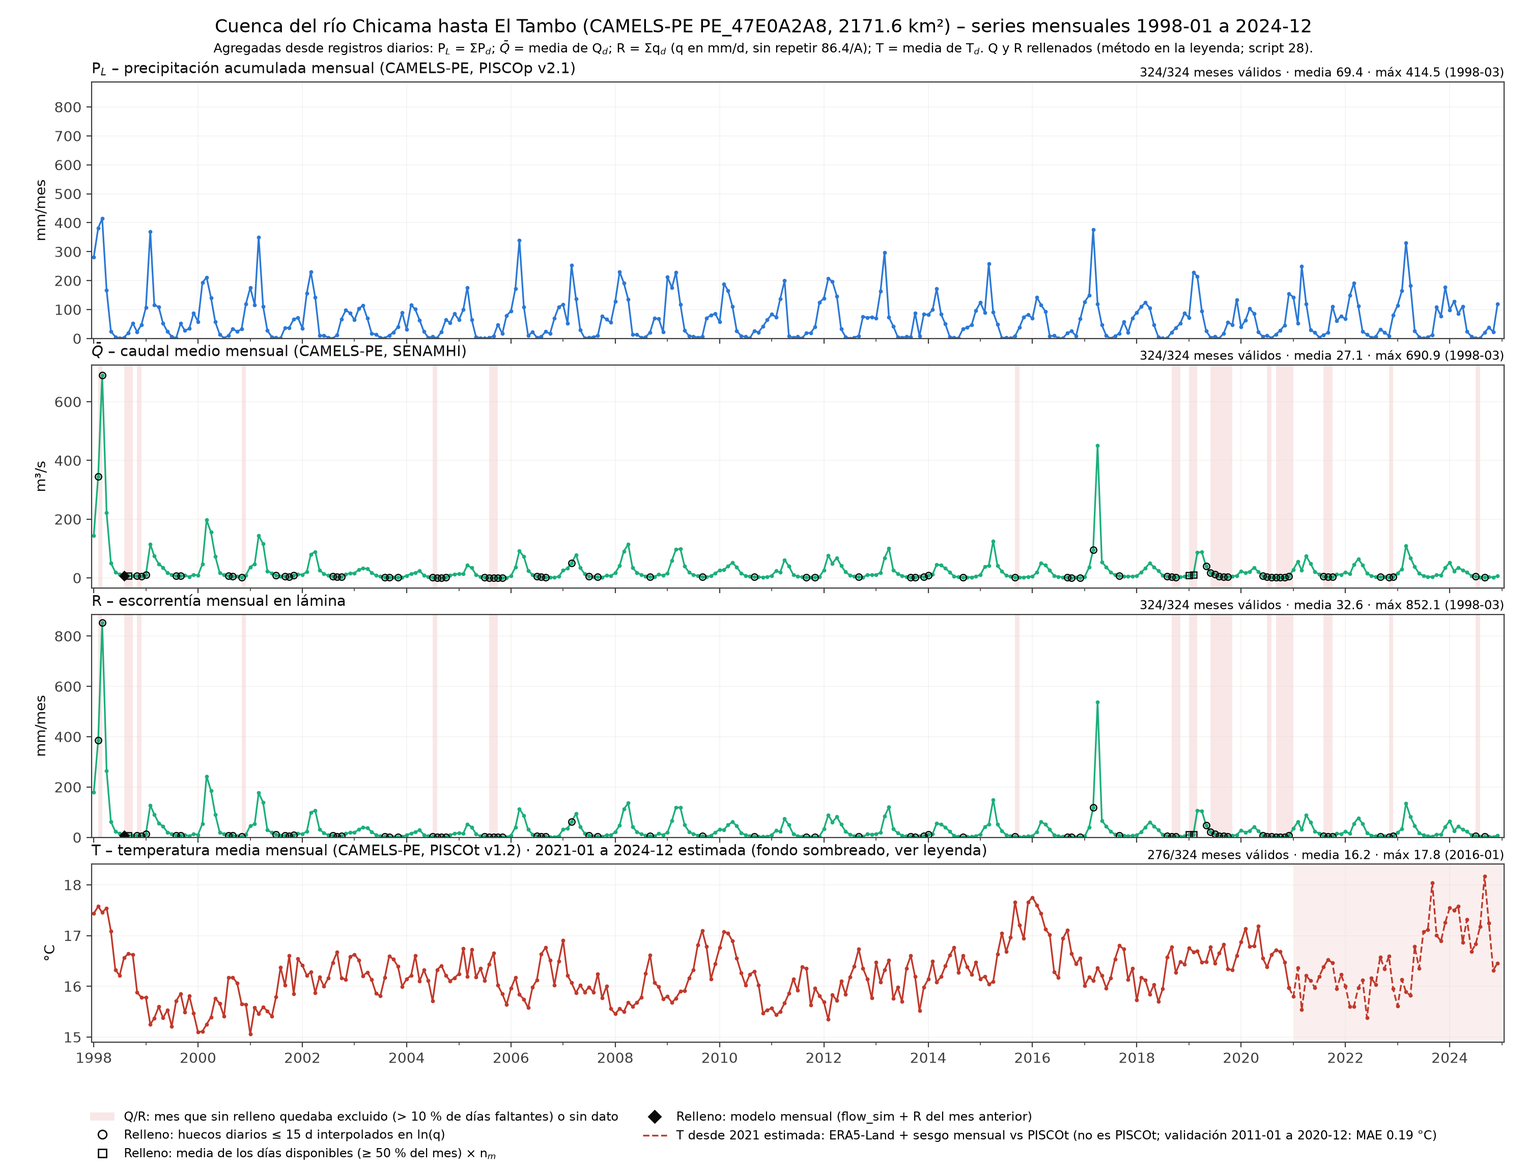
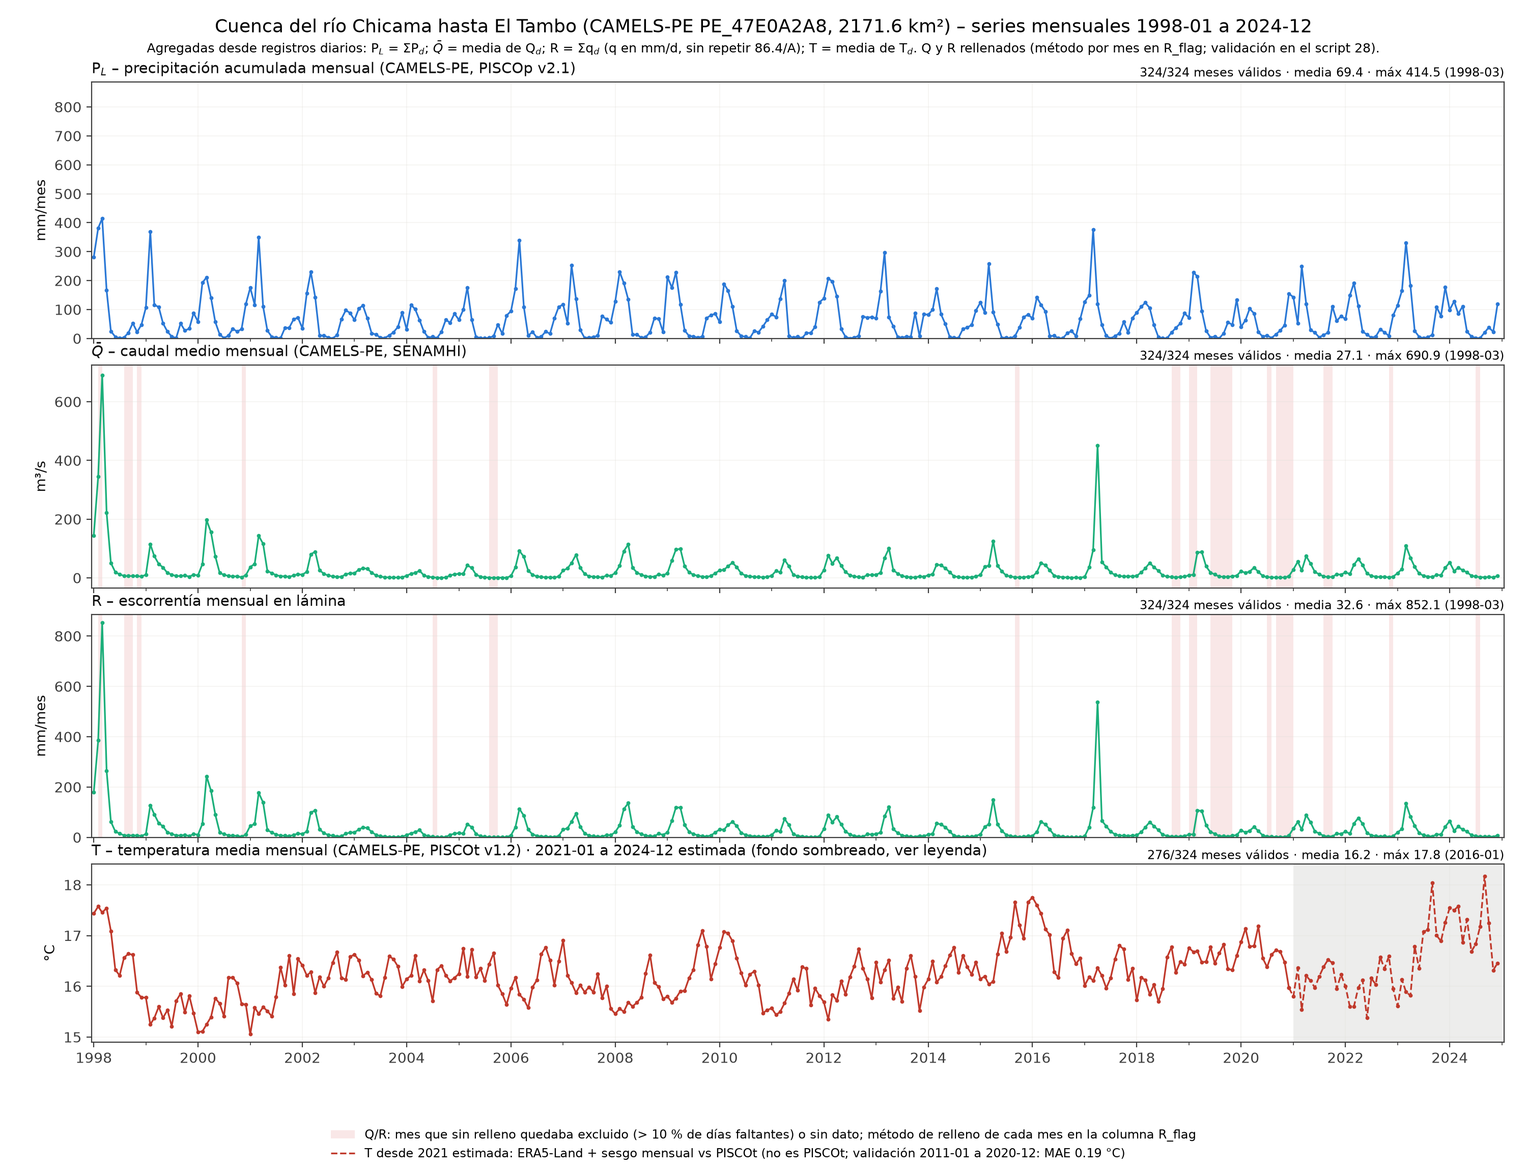
Onditas corregidas por sesgo y series sin marcadores de relleno
- Onditas: potencia corregida por sesgo (Liu et al. 2007) en % de la varianza
  por octava; espectro global superpuesto al periodograma de Fourier en la
  misma unidad.
- Punto 1.1: sin marcadores de caudal rellenado en la figura y la gráfica
  interactiva; se mantiene el sombreado de los meses antes excluidos y el
  método de cada mes queda en R_flag.

Changed region(s): [[0.093, 0.0309, 0.868, 0.0617], [0.062, 0.9261, 0.806, 0.9878], [0.775, 0.463, 0.806, 0.4939]]

diff --git a/index.html b/index.html
@@ -268,7 +268,7 @@ footer .wrap{padding-top:18px;padding-bottom:26px}
   <header class="fig-h"><h3>Series mensuales en paneles alineados</h3><span class="tipo int">interactiva</span></header>
   <div class="fig-cuerpo"><div class="selector multi" data-para="serie11" role="group" aria-label="Paneles visibles"><span class="sel-tit">Paneles visibles:</span><button type="button" data-v="P_L" aria-pressed="true">P<sub>L</sub></button><button type="button" data-v="Q" aria-pressed="true">Q̄</button><button type="button" data-v="R" aria-pressed="true">R</button><button type="button" data-v="T" aria-pressed="true">T</button></div><div class="plot" data-plot="serie11" role="img" aria-label="Series mensuales en paneles alineados"></div></div>
   <div class="fig-texto">
-    <div><h4>Qué muestra</h4><p>Los cuatro paneles comparten el eje de tiempo: al pasar el cursor se leen los cuatro valores del mismo mes. El caudal y la escorrentía tienen sus faltantes rellenados: los marcadores indican el método (76 meses con días interpolados, 3 escalados y 1 reconstruido con modelo, 1998-08), y el fondo rojo claro los 27 meses que sin relleno quedaban excluidos. Desde 2021 la temperatura es una estimación con ERA5-Land (línea discontinua), no PISCOt. Con los botones se eligen los paneles que se muestran; siempre quedan alineados en el mismo eje de tiempo.</p><p class="leer"><b>Cómo leerla.</b> Los máximos de 1998 y 2017 corresponden a eventos de El Niño; el caudal queda alto también en los meses siguientes.</p></div>
+    <div><h4>Qué muestra</h4><p>Los cuatro paneles comparten el eje de tiempo: al pasar el cursor se leen los cuatro valores del mismo mes. El caudal y la escorrentía tienen sus faltantes rellenados (76 meses con días interpolados, 3 escalados y 1 reconstruido con modelo, 1998-08; el método de cada mes está en la columna R_flag del CSV); el fondo rojo claro marca los 27 meses que sin relleno quedaban excluidos. Desde 2021 la temperatura es una estimación con ERA5-Land (línea discontinua), no PISCOt. Con los botones se eligen los paneles que se muestran; siempre quedan alineados en el mismo eje de tiempo.</p><p class="leer"><b>Cómo leerla.</b> Los máximos de 1998 y 2017 corresponden a eventos de El Niño; el caudal queda alto también en los meses siguientes.</p></div>
     <div><h4>Cómo se construyó</h4><p>P<sub>L</sub> = suma de la precipitación diaria (PISCOp v2.1 promediado en la cuenca por CAMELS-PE), solo meses completos. Q̄ = media del caudal diario observado (SENAMHI), convertido de mm/d a m³/s con Q̄ = q̄·A/86.4 y A = 2 171.6 km². R = suma de q diario en mm. T = media de la temperatura diaria (PISCOt v1.2) si faltan ≤ 10 % de los días. El relleno de caudal sigue tres pasos: interpolación de ln q en huecos ≤ 15 días, escalado de la media en meses con ≥ 50 % de días y modelo mensual con el caudal simulado en el resto (validación en el punto 1.4).</p></div>
   </div>
   <p class="meta"><span class="script">09_datos_camels_pe_el_tambo.py, relleno_caudal.py (página: 36_pagina_web.py)</span> · Datos: <a href="Tarea%201/El_Tambo/resultados/series_mensuales/series_mensuales_camels_pe.csv" download>series_mensuales_camels_pe.csv</a> · <a href="Tarea%201/El_Tambo/resultados/series_mensuales/temperatura_piscot_extendida_era5land.csv" download>temperatura_piscot_extendida_era5land.csv</a></p>
@@ -1081,7 +1081,7 @@ footer .wrap{padding-top:18px;padding-bottom:26px}
   <div class="fig-cuerpo"><button class="zoom" data-full="Tarea%201/El_Tambo/resultados/espectros/fig_onditas_4_3.png" aria-label="Ampliar: Onditas: en qué años aparece cada periodo"><img loading="lazy" src="web/img/fig_onditas_4_3.png" alt="Onditas: en qué años aparece cada periodo"></button></div>
   <div class="fig-texto">
     <div><h4>Qué muestra</h4><p>La variabilidad fuera del ciclo anual no es constante en el tiempo. En la lluvia, la banda de 4–5 años es significativa entre 1983 y 2000 (El Niño 1983 y 1997–98) y después casi desaparece; por eso los mapas de SST del punto 5 cambian entre 1981–2002 y 2003–2024. El caudal solo muestra pulsos cortos en 1998 y 2017. La temperatura mantiene una banda de 3–5 años durante todo el registro, igual que Niño 1+2.</p></div>
-    <div><h4>Cómo se construyó</h4><p>Transformada continua con la ondita de Morlet (ω0 = 6) de las anomalías estandarizadas (Torrence y Compo 1998). Contorno: supera el 95 % de un ruido rojo AR(1); rayado: cono de influencia (efecto de los bordes); a la derecha, el espectro global (promedio en el tiempo). El relleno con ceros es interno a la transformada; los datos no se rellenan.</p></div>
+    <div><h4>Cómo se construyó</h4><p>Transformada continua con la ondita de Morlet (ω0 = 6) de las anomalías estandarizadas (Torrence y Compo 1998), con la potencia corregida por sesgo (Liu et al. 2007: se divide por la escala, porque sin corregir se inflan los periodos largos) y expresada en % de la varianza por octava de periodo. Contorno: supera el 95 % de un ruido rojo AR(1); rayado: cono de influencia (efecto de los bordes); a la derecha, el espectro global (promedio en el tiempo) sobre el periodograma de Fourier en la misma unidad: el espectro global es un Fourier suavizado, por eso coinciden los picos. El relleno con ceros es interno a la transformada; los datos no se rellenan.</p></div>
   </div>
   <p class="meta"><span class="script">38_onditas_4.py</span> · <a href="Tarea%201/El_Tambo/resultados/espectros/fig_onditas_4_3.png" target="_blank" rel="noopener">PNG en resolución completa</a> · Datos: <a href="Tarea%201/El_Tambo/resultados/espectros/onditas_resumen_4_3.csv" download>onditas_resumen_4_3.csv</a></p>
 </article>
@@ -1684,21 +1684,7 @@ debe sustentar con bibliografía.
       data.push(linea(x, D.T_est, "T estimada (ERA5-Land + sesgo)", t.vT, { yaxis: ax.T,
         line: { color: t.vT, width: 1.8, dash: "dash" }, hovertemplate: "%{y:.2f} °C" }));
     }
-    const banderas = [["interpolado_diario", "circle-open", "días interpolados"], ["escalado", "square", "mes escalado"],
-                      ["modelo_mensual", "diamond", "modelo mensual"]];
-    banderas.forEach(([cod, sim, txt]) => {
-      const xi = [], yq = [], yr = [];
-      D.R_flag.forEach((f, i) => { if (f === cod) { xi.push(x[i]); yq.push(D.Q[i]); yr.push(D.R[i]); } });
-      if (!xi.length) return;
-      const mk = { color: t.ink, size: 8, symbol: sim, line: { color: t.ink, width: 1.5 } };   // relleno en tinta, no en un color de variable
-      let leyenda = true;
-      [["Q", yq], ["R", yr]].forEach(([v, yy]) => {
-        if (!ax[v]) return;
-        data.push({ type: "scatter", mode: "markers", x: xi, y: yy, yaxis: ax[v], name: "Caudal rellenado: " + txt,
-          legendgroup: cod, showlegend: leyenda, marker: mk, hovertemplate: txt });
-        leyenda = false;
-      });
-    });
+    // los meses de caudal rellenados no se marcan; quedan sombreados los que sin relleno se excluían
     const shapes = [];                                          // solo caudal y escorrentía tienen meses excluidos
     ["Q", "R"].filter((v) => ax[v]).forEach((v) => {
       D.R_flag_obs.forEach((f, i) => {

diff --git a/web/graficas.js b/web/graficas.js
@@ -92,21 +92,7 @@
       data.push(linea(x, D.T_est, "T estimada (ERA5-Land + sesgo)", t.vT, { yaxis: ax.T,
         line: { color: t.vT, width: 1.8, dash: "dash" }, hovertemplate: "%{y:.2f} °C" }));
     }
-    const banderas = [["interpolado_diario", "circle-open", "días interpolados"], ["escalado", "square", "mes escalado"],
-                      ["modelo_mensual", "diamond", "modelo mensual"]];
-    banderas.forEach(([cod, sim, txt]) => {
-      const xi = [], yq = [], yr = [];
-      D.R_flag.forEach((f, i) => { if (f === cod) { xi.push(x[i]); yq.push(D.Q[i]); yr.push(D.R[i]); } });
-      if (!xi.length) return;
-      const mk = { color: t.ink, size: 8, symbol: sim, line: { color: t.ink, width: 1.5 } };   // relleno en tinta, no en un color de variable
-      let leyenda = true;
-      [["Q", yq], ["R", yr]].forEach(([v, yy]) => {
-        if (!ax[v]) return;
-        data.push({ type: "scatter", mode: "markers", x: xi, y: yy, yaxis: ax[v], name: "Caudal rellenado: " + txt,
-          legendgroup: cod, showlegend: leyenda, marker: mk, hovertemplate: txt });
-        leyenda = false;
-      });
-    });
+    // los meses de caudal rellenados no se marcan; quedan sombreados los que sin relleno se excluían
     const shapes = [];                                          // solo caudal y escorrentía tienen meses excluidos
     ["Q", "R"].filter((v) => ax[v]).forEach((v) => {
       D.R_flag_obs.forEach((f, i) => {

diff --git a/Hidrologiat1/Codigos/38_onditas_4.py b/Hidrologiat1/Codigos/38_onditas_4.py
@@ -9,6 +9,10 @@ Método (Torrence & Compo 1998, BAMS 79:61–78; implementación propia con FFT)
   · Ondita de Morlet, ω0 = 6; Δt = 1 mes; escalas s_j = 2 meses · 2^(j/12) hasta ~20 años; periodo de Fourier
     = 1.033 s. Se rellena con ceros hasta la siguiente potencia de 2 (procedimiento estándar de la transformada; los
     datos no se rellenan): las zonas afectadas por los bordes quedan fuera del cono de influencia (COI), sombreado.
+  · Corrección de sesgo (Liu, Liang y Weisberg 2007, J. Atmos. Oceanic Technol. 24:2093–2102): la potencia |W|² sin
+    corregir infla los periodos largos; se divide por la escala. Expresada como 100·|W|²/(C_δ·s)/σ² es el % de la
+    varianza por octava de periodo (su integral en escala recupera la varianza, TC98 ec. 14), la misma unidad que el
+    periodograma de Fourier por octava, 100·S_k·f_k·ln2/σ², que se superpone al espectro global para compararlos.
   · Significancia: fondo de ruido rojo AR(1) con la autocorrelación de rezago 1 de cada serie; 95 % puntual con
     χ²₂/2 (contorno negro). Espectro global (promedio en el tiempo) con sus grados de libertad (TC98 ec. 23).
   · Varianza promediada en la banda 2–7 años (TC98 ec. 24) con su umbral de 95 % (ec. 25–28), y reconstrucción de la
@@ -108,7 +112,17 @@ for k, (s, nom, col) in SERIES.items():
     sig_b = DJ / CDELTA * (teor[b] / esc[b]).sum() * stats.chi2.ppf(0.95, dof_b) / dof_b
     comp = DJ / (CDELTA * PSI0) * (W[b].real / np.sqrt(esc[b, None])).sum(0)   # componente 2–7 años (σ = 1)
     dentro = per[:, None] <= coi[None, :]
-    RES[k] = dict(t=s.index, pot=pot, sig=sig, per=per, coi=coi, glob=glob, glob_sig=glob_sig, alfa=alfa, nom=nom, col=col)
+    var = np.var(x)
+    rect = 100 * pot / (CDELTA * esc[:, None]) / var             # Liu et al. 2007: % de la varianza por octava
+    glob_oct = rect.mean(1)
+    glob_sig_oct = 100 * glob_sig / (CDELTA * esc) / var
+    X = np.fft.rfft(x - x.mean())
+    fk = np.arange(len(X)) / n
+    Sk = 2 * np.abs(X) ** 2 / n                                  # densidad unilateral, Δt = 1 mes
+    four_oct = 100 * Sk[1:] * fk[1:] * np.log(2) / var
+    RES[k] = dict(t=s.index, pot=pot, sig=sig, per=per, coi=coi, glob=glob, glob_sig=glob_sig, alfa=alfa, nom=nom, col=col,
+                  rect=rect, glob_oct=glob_oct, glob_sig_oct=glob_sig_oct, four_per=1 / fk[1:] / 12, four_oct=four_oct,
+                  suma_oct=float(glob_oct.sum() * DJ))
     BAND[k] = pd.Series(savg, index=s.index)
     COMP[k] = pd.Series(comp, index=s.index)
     frac_sig_banda = float(((sig[b] > 1) & dentro[b]).any(0).mean())
@@ -118,7 +132,10 @@ for k, (s, nom, col) in SERIES.items():
                   "umbral_95_varianza_banda": float(sig_b),
                   "frac_tiempo_varianza_banda_sobre_umbral": float((savg > sig_b).mean()),
                   "periodo_max_espectro_global_2_7a_anios": float(per[b][np.argmax(glob[b])] / 12),
-                  "global_supera_95_en_banda": bool((glob[b] > glob_sig[b]).any())})
+                  "global_supera_95_en_banda": bool((glob[b] > glob_sig[b]).any()),
+                  "pico_global_corregido_anios": float(per[np.argmax(glob_oct)] / 12),
+                  "pico_global_corregido_2_7a_anios": float(per[b][np.argmax(glob_oct[b])] / 12),
+                  "pct_varianza_reconstruida": float(glob_oct.sum() * DJ)})
     RES[k]["sig_b"] = sig_b
 
 # correlación entre componentes de 2–7 años (descriptiva)
@@ -140,7 +157,7 @@ print(RS.round(2).T.to_string())
 
 # ------------------------------------------------------------------ figura 1: potencia de onditas
 ORDEN = ["P_L", "Q", "T_ERA5L", "N12"]
-NIV = [0, 0.5, 1, 2, 4, 8, 16, 32]
+NIV = [0, 5, 10, 20, 40, 80, 160, 320]
 NORM = BoundaryNorm(NIV, CMAP_P.N, extend="max")
 fig = plt.figure(figsize=(15, 3.0 * len(ORDEN)))
 gs = fig.add_gridspec(len(ORDEN), 2, width_ratios=[5, 1], hspace=0.45, wspace=0.04, bottom=0.12, top=0.89)
@@ -150,7 +167,7 @@ for i, k in enumerate(ORDEN):
     ax = fig.add_subplot(gs[i, 0])
     T = d["t"]
     P = d["per"] / 12
-    m = ax.contourf(T, P, d["pot"], levels=NIV, cmap=CMAP_P, norm=NORM, extend="max")
+    m = ax.contourf(T, P, d["rect"], levels=NIV, cmap=CMAP_P, norm=NORM, extend="max")
     ax.contour(T, P, d["sig"], levels=[1], colors=TINTA, linewidths=0.9)
     ax.fill_between(T, d["coi"] / 12, P.max(), color="white", alpha=0.55, hatch="xx", edgecolor=GRIS_CLARO, lw=0)
     ax.axhspan(BANDA[0] / 12, BANDA[1] / 12, color="none", ec=TINTA2, ls="--", lw=0.8)
@@ -164,23 +181,24 @@ for i, k in enumerate(ORDEN):
     ax.set_title(f"{d['nom']} · anomalías estandarizadas {T[0]:%Y-%m}–{T[-1]:%Y-%m} · AR(1) α = {d['alfa']:.2f}",
                  fontsize=9.5, loc="left")
     g = fig.add_subplot(gs[i, 1], sharey=ax)
-    g.plot(d["glob"], P, color=d["col"], lw=1.6, label="espectro global")
-    g.plot(d["glob_sig"], P, color=TINTA2, lw=0.9, ls="--", label="95 % AR(1)")
+    fo = d["four_per"] <= 20
+    g.plot(d["four_oct"][fo], d["four_per"][fo], color=GRIS_CLARO, lw=0.8, label="Fourier (periodograma)")
+    g.plot(d["glob_oct"], P, color=d["col"], lw=1.8, label="onditas (global)")
+    g.plot(d["glob_sig_oct"], P, color=TINTA2, lw=0.9, ls="--", label="95 % AR(1)")
     g.axhspan(BANDA[0] / 12, BANDA[1] / 12, color=GRIS_CLARO, alpha=0.3, lw=0)
-    g.set_xscale("log")
-    g.xaxis.set_major_locator(matplotlib.ticker.LogLocator(base=10, numticks=4))
-    g.xaxis.set_minor_formatter(matplotlib.ticker.NullFormatter())
+    g.set_xlim(0, 1.15 * max(d["glob_oct"].max(), d["glob_sig_oct"][P <= 20].max()))
     g.tick_params(labelleft=False)
     ax.set_ylim(20, P.min())                                     # periodos cortos arriba (como Torrence y Compo 1998)                                     # el panel global comparte el eje: fijarlo al final
     g.set_title("global", fontsize=9, loc="left")
     if i == 0:
-        g.legend(fontsize=7, frameon=False, loc="upper right")
+        g.legend(fontsize=7, frameon=False, loc="lower right")
     if i == len(ORDEN) - 1:
-        g.set_xlabel("potencia (varianza)")
+        g.set_xlabel("% de la varianza por octava")
 cax = fig.add_axes([0.2, 0.06, 0.45, 0.012])
 cb = fig.colorbar(m, cax=cax, orientation="horizontal", ticks=NIV)
-cb.set_label("potencia de onditas |W|² (en unidades de la varianza de la serie; 1 = varianza media)")
-fig.suptitle("Punto 4 · Onditas de Morlet: en qué años aparece cada periodo\n"
+cb.set_label("potencia corregida por sesgo (Liu et al. 2007): % de la varianza por octava de periodo")
+fig.suptitle("Punto 4 · Onditas de Morlet: en qué años aparece cada periodo (potencia corregida por sesgo; a la derecha, "
+             "espectro global de onditas sobre el periodograma de Fourier, en la misma unidad)\n"
              "Contorno negro: supera el 95 % frente a un ruido rojo AR(1) · rayado: cono de influencia (bordes, no interpretar) · "
              "líneas discontinuas: banda de 2–7 años · punteadas verticales: El Niño 1983, 1998, 2016, 2017, 2023",
              fontsize=10, y=0.94)

diff --git a/Hidrologiat1/Codigos/15_figura_series_1_1.py b/Hidrologiat1/Codigos/15_figura_series_1_1.py
@@ -27,7 +27,7 @@ from matplotlib.patches import Patch
 from matplotlib.lines import Line2D
 
 from periodo_comun import periodo_comun
-from estilo_figuras import VAR, TINTA, GRIS, RELLENO, SOMBRA_EXCLUIDO, SOMBRA_ESTIMADO, aplicar_estilo
+from estilo_figuras import VAR, TINTA, GRIS, SOMBRA_EXCLUIDO, SOMBRA_ESTIMADO, aplicar_estilo
 
 aplicar_estilo()
 
@@ -71,9 +71,6 @@ for ax, (col, titulo, unid, color) in zip(axs, PANELES):
     if col in ("Q_m3_s", "R_mm_mes"):
         # Meses que con lo observado quedaban excluidos (> 10 % faltantes) o sin dato: fondo rojo claro
         sombrear(ax, m.index[m["R_flag_obs"].isin(["excluido", "sin_dato"])], SOMBRA_EXCLUIDO, 0.12)
-        for flag, est in RELLENO.items():
-            f_ = m.index[(m["R_flag"] == flag) & (m["R_flag_obs"] != "completo")]
-            ax.plot(f_, s.loc[f_], ls="none", ms=4.5, mew=0.9, **est)
     if col == "T_C" and len(faltan):
         # Tramo estimado (script 17): ERA5-Land + sesgo mensual medio frente a PISCOt en el periodo
         # común. Se dibuja aparte (discontinuo, fondo propio) y no reemplaza a T_C en los cálculos.
@@ -95,21 +92,16 @@ axs[-1].xaxis.set_major_formatter(mdates.DateFormatter("%Y"))
 axs[-1].xaxis.set_minor_locator(mdates.YearLocator(1))
 axs[-1].set_xlim(ini - pd.Timedelta(days=15), fin + pd.offsets.MonthBegin(1) + pd.Timedelta(days=15))
 
-fig.legend(handles=[Patch(fc=SOMBRA_EXCLUIDO, alpha=0.12, label="Q/R: mes que sin relleno quedaba excluido (> 10 % de días faltantes) o sin dato"),
-                    Line2D([], [], ls="none", **RELLENO["interpolado_diario"],
-                           label="Relleno: huecos diarios ≤ 15 d interpolados en ln(q)"),
-                    Line2D([], [], ls="none", **RELLENO["escalado"],
-                           label="Relleno: media de los días disponibles (≥ 50 % del mes) × n$_m$"),
-                    Line2D([], [], ls="none", **RELLENO["modelo_mensual"],
-                           label="Relleno: modelo mensual (flow_sim + R del mes anterior)"),
+fig.legend(handles=[Patch(fc=SOMBRA_EXCLUIDO, alpha=0.12, label="Q/R: mes que sin relleno quedaba excluido (> 10 % de días faltantes) o sin dato; "
+                          "método de relleno de cada mes en la columna R_flag"),
                     Line2D([], [], color=COLOR_EST, ls="--", lw=1.2,
                            label=f"T desde 2021 estimada: ERA5-Land + sesgo mensual vs PISCOt (no es PISCOt; "
                                  f"validación {VAL_T['evaluacion']}: MAE {float(VAL_T['MAE_C']):.2f} °C)")],
-           loc="lower center", ncol=2, fontsize=8.5, frameon=False, bbox_to_anchor=(0.5, 0.0))
+           loc="lower center", ncol=1, fontsize=8.5, frameon=False, bbox_to_anchor=(0.5, 0.0))
 fig.suptitle("Cuenca del río Chicama hasta El Tambo (CAMELS-PE PE_47E0A2A8, 2171.6 km²) – series "
              f"mensuales {ini:%Y-%m} a {fin:%Y-%m}", fontsize=13, y=0.985)
 fig.text(0.5, 0.955, "Agregadas desde registros diarios: P$_L$ = ΣP$_d$; $\\bar{Q}$ = media de Q$_d$; "
-         "R = Σq$_d$ (q en mm/d, sin repetir 86.4/A); T = media de T$_d$. Q y R rellenados (método en la leyenda; script 28).",
+         "R = Σq$_d$ (q en mm/d, sin repetir 86.4/A); T = media de T$_d$. Q y R rellenados (método por mes en R_flag; validación en el script 28).",
          ha="center", fontsize=9)
 fig.subplots_adjust(left=0.06, right=0.985, top=0.93, bottom=0.11)
 fig.savefig(OUT / "fig_series_mensuales_1_1.png", dpi=200)

diff --git a/Hidrologiat1/Codigos/36_pagina_web.py b/Hidrologiat1/Codigos/36_pagina_web.py
@@ -459,9 +459,9 @@ pestana("p11", "1.1 Series", "Punto 1.1 · Series mensuales de precipitación, c
         f"inferior para elegir un intervalo y doble clic para volver a la vista completa.",
         tarjeta("Series mensuales en paneles alineados",
                 f"Los cuatro paneles comparten el eje de tiempo: al pasar el cursor se leen los cuatro valores del mismo mes. "
-                f"El caudal y la escorrentía tienen sus faltantes rellenados: los marcadores indican el método "
-                f"({RL['interp']} meses con días interpolados, {RL['esc']} escalados y {RL['mod']} reconstruido con modelo, "
-                f"{RL['mes_mod']}), y el fondo rojo claro los {RL['excl']} meses que sin relleno quedaban excluidos. Desde 2021 "
+                f"El caudal y la escorrentía tienen sus faltantes rellenados ({RL['interp']} meses con días interpolados, "
+                f"{RL['esc']} escalados y {RL['mod']} reconstruido con modelo, {RL['mes_mod']}; el método de cada mes está en "
+                f"la columna R_flag del CSV); el fondo rojo claro marca los {RL['excl']} meses que sin relleno quedaban excluidos. Desde 2021 "
                 f"la temperatura es una estimación con ERA5-Land (línea discontinua), no PISCOt. Con los botones se eligen los "
                 f"paneles que se muestran; siempre quedan alineados en el mismo eje de tiempo.",
                 "P<sub>L</sub> = suma de la precipitación diaria (PISCOp v2.1 promediado en la cuenca por CAMELS-PE), solo "
@@ -940,8 +940,11 @@ pestana("p4", "4 Fourier", "Punto 4 · Escalas dominantes de variabilidad (Fouri
                   "SST del punto 5 cambian entre 1981–2002 y 2003–2024. El caudal solo muestra pulsos cortos en 1998 y "
                   "2017. La temperatura mantiene una banda de 3–5 años durante todo el registro, igual que Niño 1+2.",
                   "Transformada continua con la ondita de Morlet (ω0 = 6) de las anomalías estandarizadas (Torrence y "
-                  "Compo 1998). Contorno: supera el 95 % de un ruido rojo AR(1); rayado: cono de influencia (efecto de los "
-                  "bordes); a la derecha, el espectro global (promedio en el tiempo). El relleno con ceros es interno a la "
+                  "Compo 1998), con la potencia corregida por sesgo (Liu et al. 2007: se divide por la escala, porque sin "
+                  "corregir se inflan los periodos largos) y expresada en % de la varianza por octava de periodo. Contorno: "
+                  "supera el 95 % de un ruido rojo AR(1); rayado: cono de influencia (efecto de los bordes); a la derecha, el "
+                  "espectro global (promedio en el tiempo) sobre el periodograma de Fourier en la misma unidad: el espectro "
+                  "global es un Fourier suavizado, por eso coinciden los picos. El relleno con ceros es interno a la "
                   "transformada; los datos no se rellenan.",
                   "38_onditas_4.py", png=ES / "fig_onditas_4_3.png", csvs=[ES / "onditas_resumen_4_3.csv"])
         + tarjeta("¿La banda de 2–7 años va con el ENSO?",
